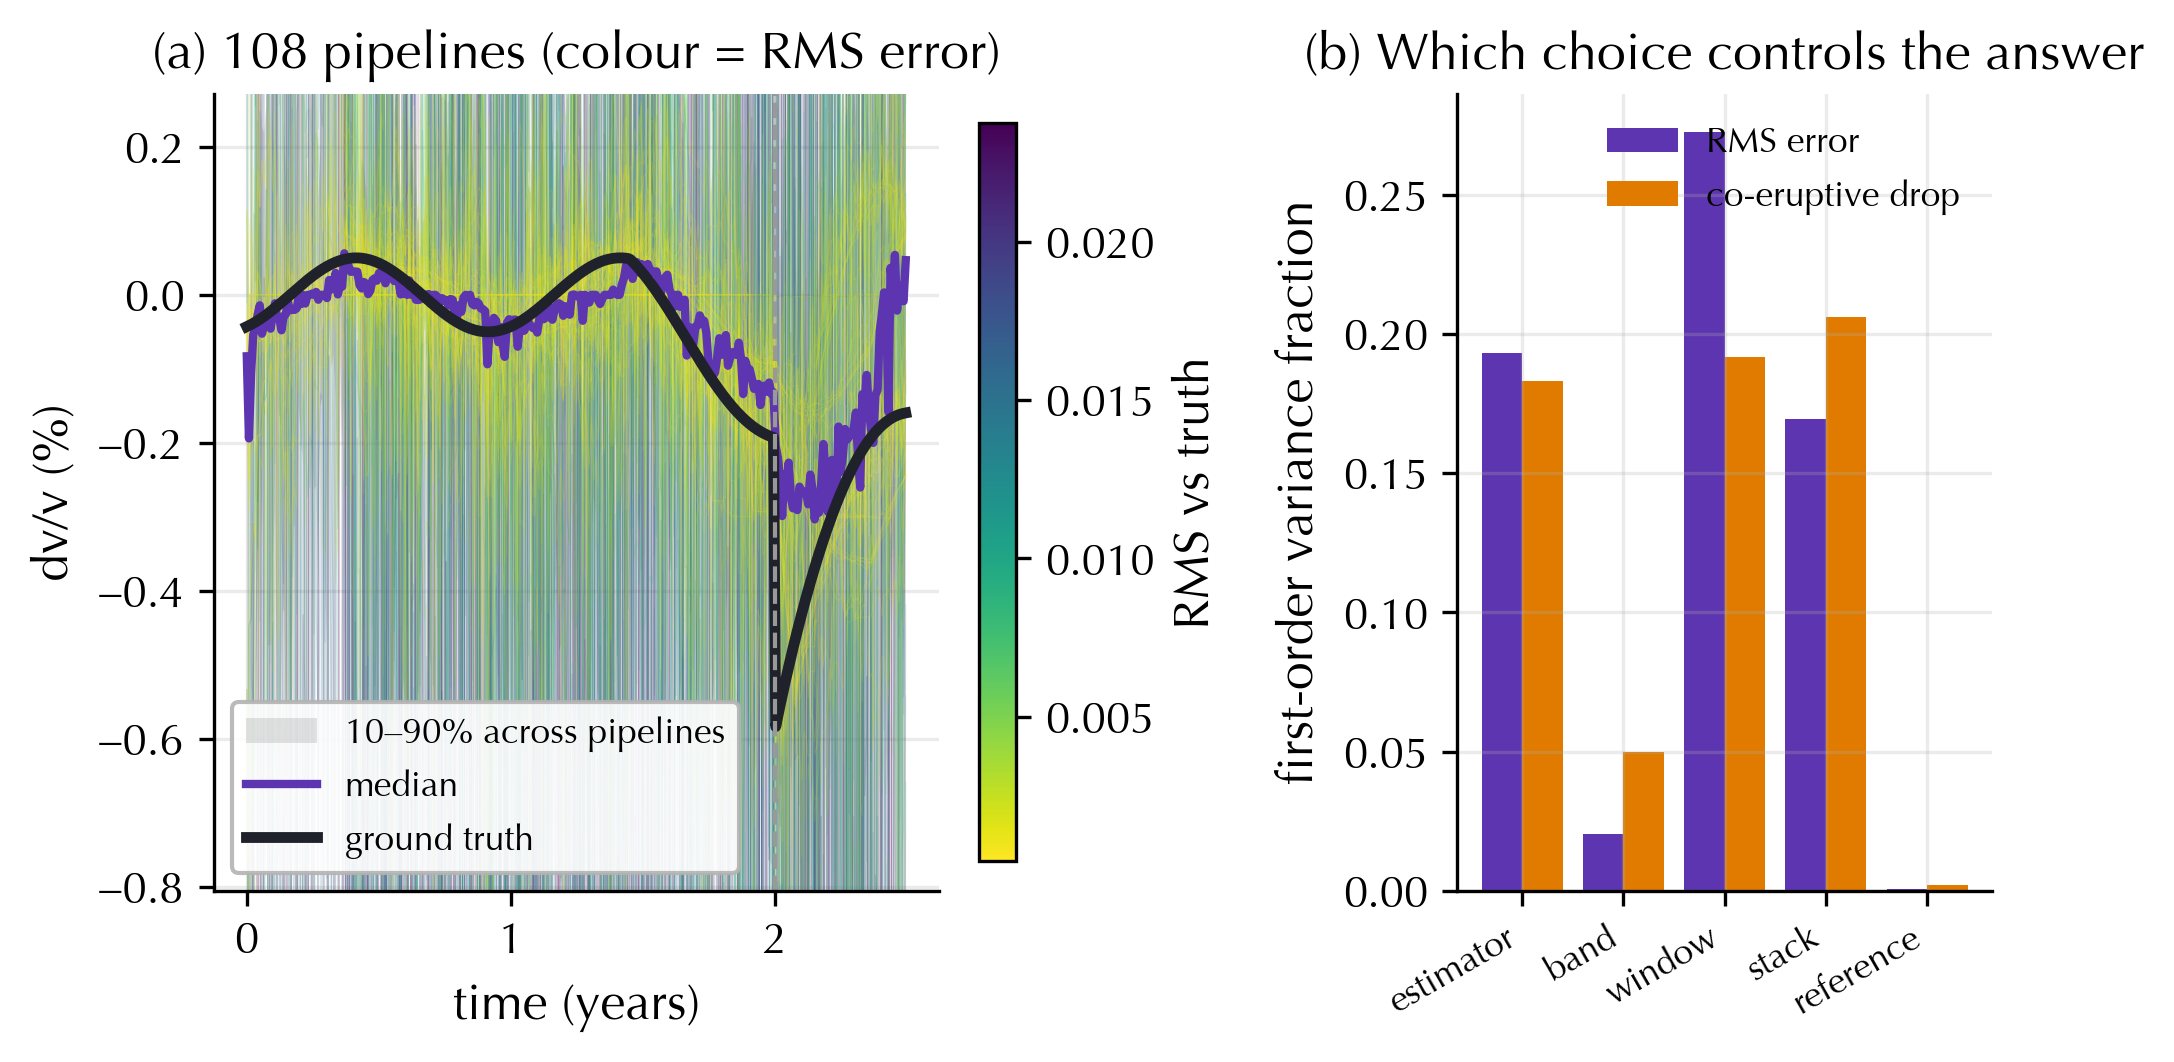
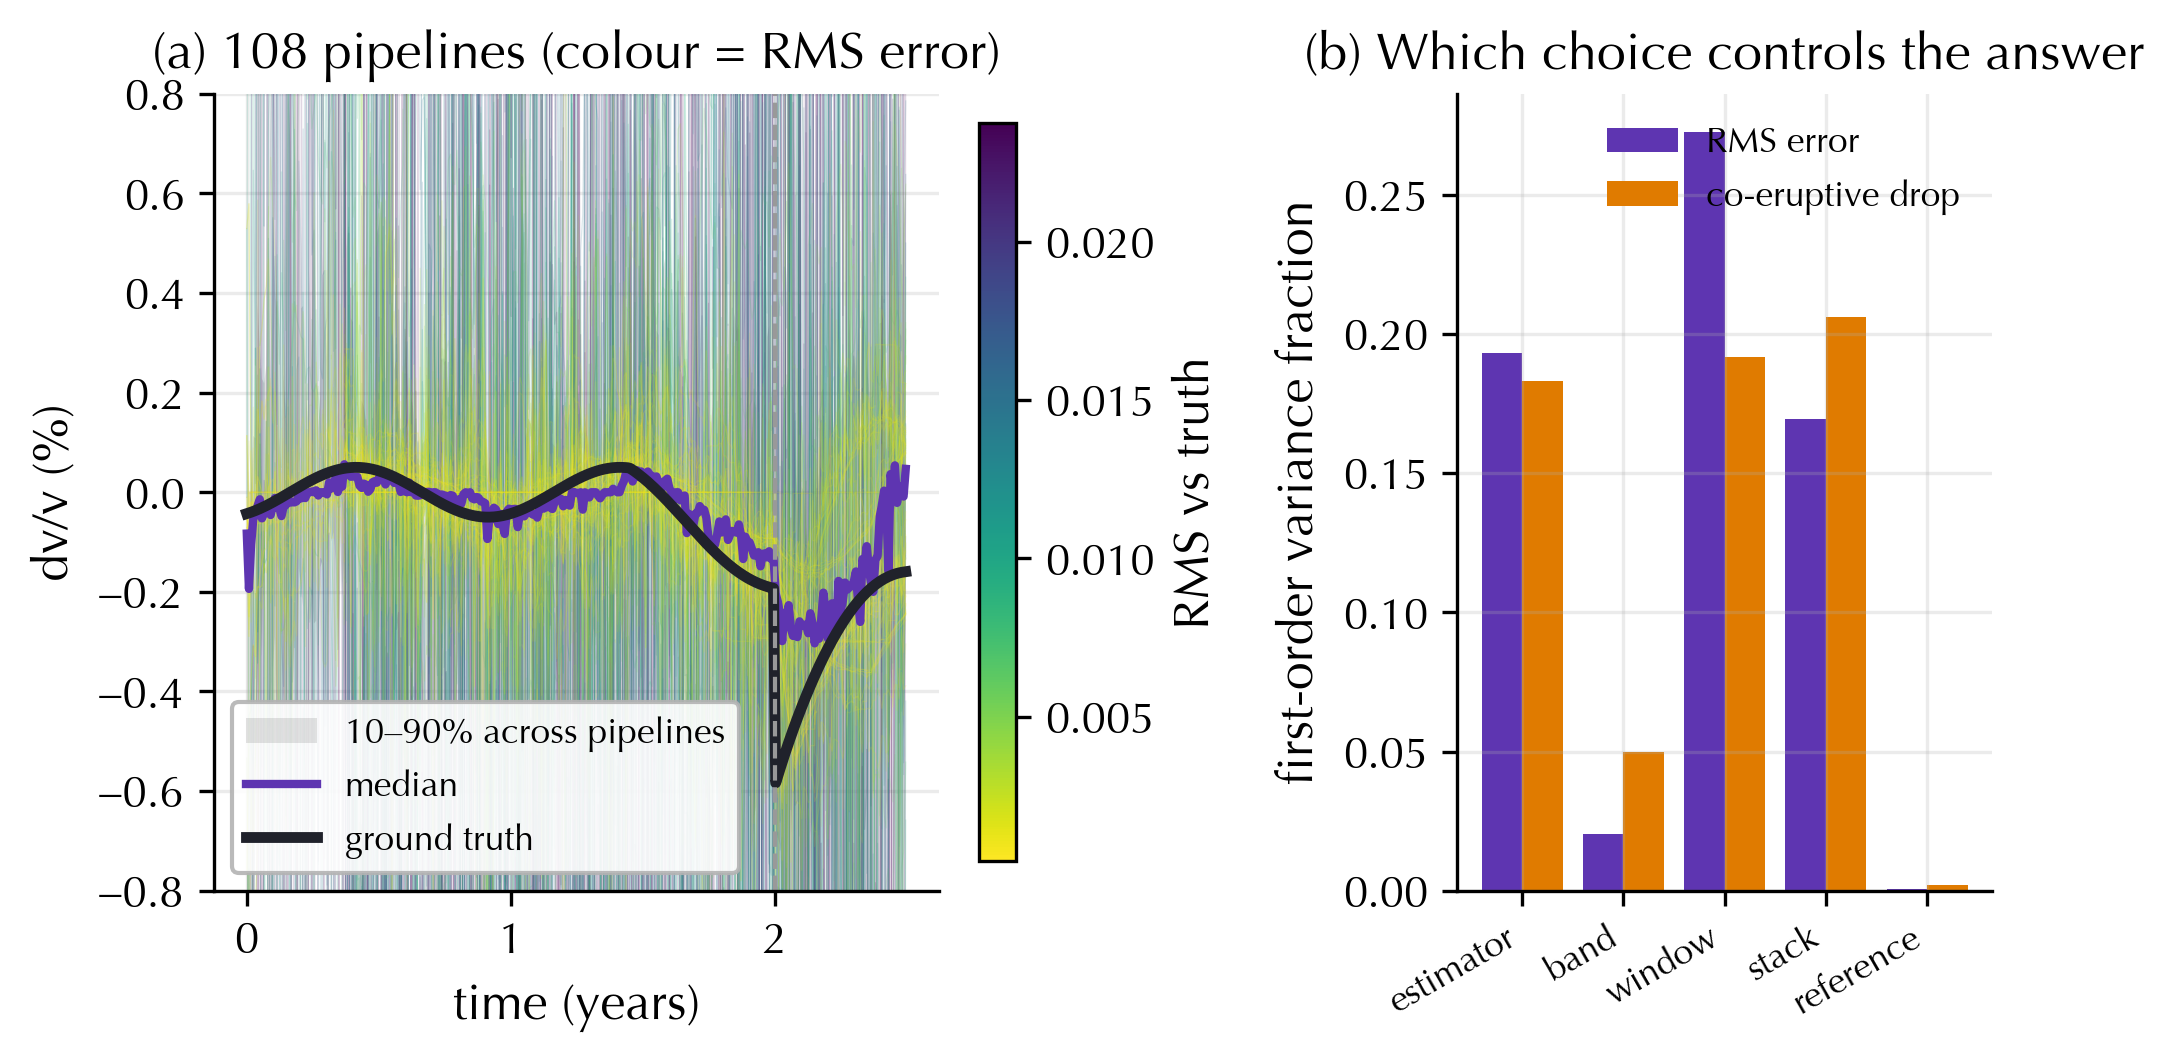
Fix Figure 10a y-axis symmetry and Figure 11 panel-c layout
Figure 10a (multiverse RMS panel): pin to a fixed, symmetric
(-0.8, 0.8) range instead of a dynamic percentile-based span, since
the cycle-skipping pipelines were making the colourbar/axis scale
distractingly asymmetric.

Figure 11 (Bayesian measurement model): restructure from a cramped
1x3 row to a 2x2 grid with panel (c) full-width on its own row --
it carries four legend entries and was too horizontally squeezed
sharing a row with (a) and (b).

Verified: 245/245 tests pass, PDF builds cleanly, both fixes
confirmed on the rendered PDF pages (Fig 10 p.22, Fig 11 p.26).

diff --git a/src/codameter/deviations.py b/src/codameter/deviations.py
@@ -431,6 +431,7 @@ def fig_deviation_ranking(rows=None):
 def fig_multiverse_full(mv=None):
     """The ultimate multiverse: every pipeline + the variance attribution."""
     import matplotlib.pyplot as plt
+    from matplotlib.colors import Normalize
 
     if mv is None:
         mv = multiverse()
@@ -444,7 +445,7 @@ def fig_multiverse_full(mv=None):
     # (a) fan of pipelines, coloured by RMS error with a colourblind-safe,
     # perceptually uniform sequential map (dark = accurate, bright = biased).
     order = np.argsort(-np.nan_to_num(rms))
-    norm = plt.Normalize(np.nanpercentile(rms, 5), np.nanpercentile(rms, 95))
+    norm = Normalize(np.nanpercentile(rms, 5), np.nanpercentile(rms, 95))
     cmap = plt.cm.viridis_r
     for i in order:
         ax[0].plot(yrs, curves[i] * PCT, color=cmap(norm(rms[i])), lw=0.3, alpha=0.16)
@@ -463,13 +464,10 @@ def fig_multiverse_full(mv=None):
     )
     ax[0].plot(yrs, truth * PCT, color=C["truth"], lw=2.6, label="ground truth")
     ax[0].axvline(2.0, color="0.6", ls="--", lw=1)
-    # Clip tightly to the truth scale; the cycle-skipping pipelines run off-axis
-    # (that is the point — the colourbar flags them) but would otherwise swamp the
+    # Fixed, symmetric range: the cycle-skipping pipelines run off-axis (that is
+    # the point -- the colourbar flags them) but would otherwise swamp the
     # signal and make the panel unreadable.
-    span = (np.nanmax(truth) - np.nanmin(truth)) * PCT
-    ax[0].set_ylim(
-        (np.nanmin(truth) * PCT - 0.35 * span, np.nanmax(truth) * PCT + 0.35 * span)
-    )
+    ax[0].set_ylim((-0.8, 0.8))
     ax[0].set(
         xlabel="time (years)",
         ylabel="dv/v (%)",

diff --git a/src/codameter/uq_bayes.py b/src/codameter/uq_bayes.py
@@ -409,11 +409,11 @@ def _fig_bayes(res, run):
     truth = run.truth
     sd_cd = np.sqrt(np.diag(res.Cd))
     sd_post = np.sqrt(np.diag(res.mu_cov))
-    fig = plt.figure(figsize=(7.2, 3.0), layout="constrained")
-    gs = fig.add_gridspec(1, 3, width_ratios=[1.5, 1.0, 1.1])
+    fig = plt.figure(figsize=(7.2, 5.6), layout="constrained")
+    gs = fig.add_gridspec(2, 2, height_ratios=[1.0, 1.0])
 
     # (a) ensemble + posterior + the two bands.
-    ax0 = fig.add_subplot(gs[0])
+    ax0 = fig.add_subplot(gs[0, 0])
     for k in range(run.members.shape[0]):
         ax0.plot(yrs, run.members[k] * 100, lw=0.5, color="0.7", alpha=0.6)
     if truth is not None:
@@ -448,7 +448,7 @@ def _fig_bayes(res, run):
     )
 
     # (b) the data covariance matrix.
-    ax1 = fig.add_subplot(gs[1])
+    ax1 = fig.add_subplot(gs[0, 1])
     vmax = float(np.percentile(np.diag(res.Cd), 85))  # robust to the warm-up spike
     im = ax1.imshow(
         res.Cd,
@@ -472,7 +472,9 @@ def _fig_bayes(res, run):
     fig.colorbar(im, ax=ax1, fraction=0.046)
 
     # (c) time-dependent sigma_d(t) and the effective-sample-size collapse.
-    ax2 = fig.add_subplot(gs[2])
+    # Full width on its own row: it carries four legend entries and was too
+    # horizontally squeezed sharing a row with (a) and (b).
+    ax2 = fig.add_subplot(gs[1, :])
     ax2.plot(
         yrs, sd_cd * 100, color=C["volcano"], lw=1.6, label=r"$\sigma_d(t)$ (total)"
     )
